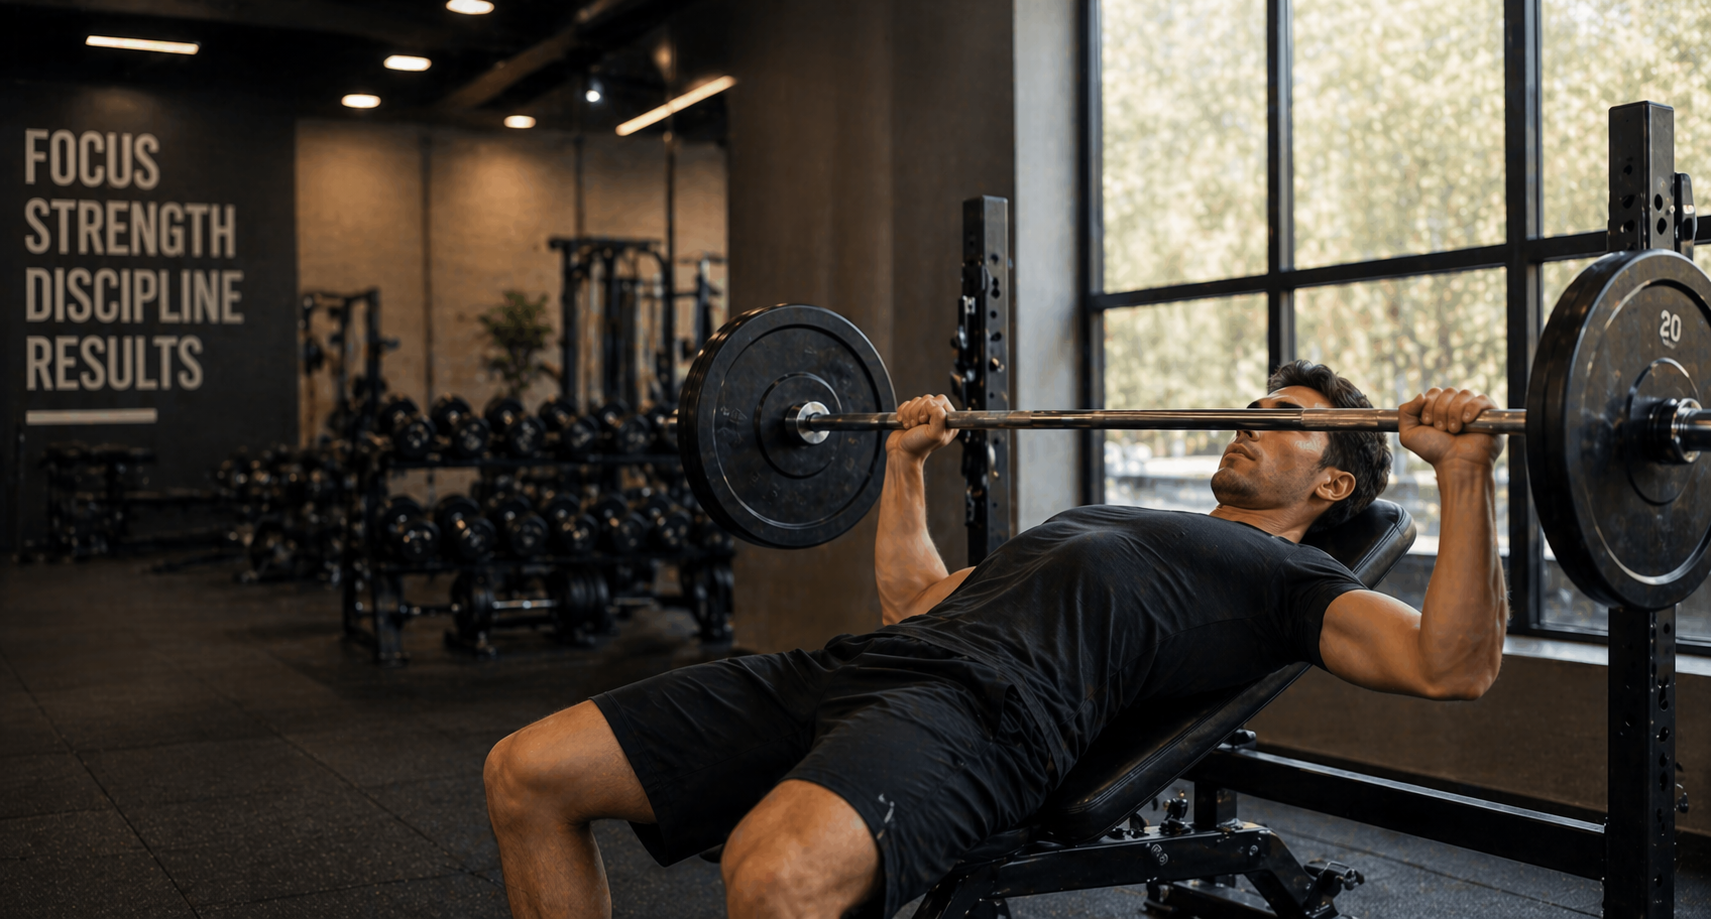
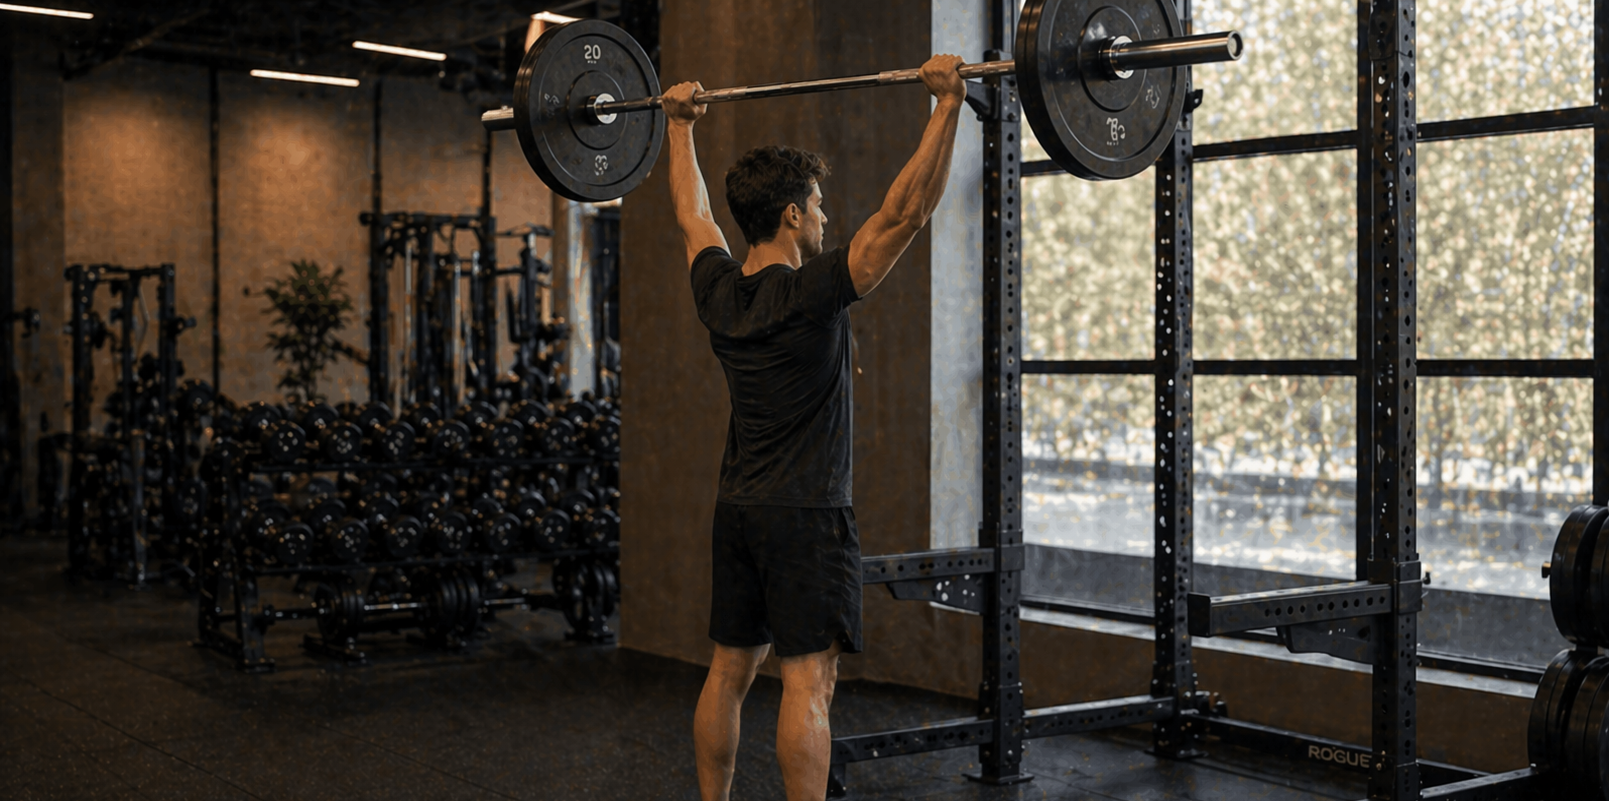
feat: cta section

diff --git a/index.html b/index.html
@@ -81,6 +81,7 @@
         </section>
 
         <section class="features-modern">
+            <h2 class="visually-hidden">Gym Features Overview</h2>
             <div class="grid-2x2">
 
                 <article class="card">
@@ -120,8 +121,17 @@
                         <p>Stay hydrated with water, juices, and energy drinks.</p>
                     </div>
                 </article>
-
             </div>
+        </section>
+
+        <section class="section cta-section" id="cta-section">
+            <h2 class="h2">Your fitness journey starts here!</h2>
+            <p class="p">
+                No commitments, no pressure. Try Gym4U for free and explore our classes,
+                expert trainers, and modern facilities. Check the
+                schedule and find what suits you.
+            </p>
+            <p class="p"><a class="a" href="classes.html">See more about classes!</a></p>
         </section>
 
         <section class="section review-form-container">

diff --git a/css/index.css b/css/index.css
@@ -161,6 +161,18 @@
   background: rgba(120, 120, 120, 0.5);
 }
 
+.visually-hidden {
+  position: absolute;
+  width: 0.0625rem;
+  height: 0.0625rem;
+  padding: 0;
+  margin: -0.0625rem;
+  overflow: hidden;
+  clip: rect(0, 0, 0, 0);
+  white-space: nowrap;
+  border: 0;
+}
+
 .content {
   position: absolute;
   top: 0;
@@ -199,6 +211,23 @@
 
 .content a:hover {
   color: var(--primary-strong);
+}
+
+.cta-section {
+  background: var(--surface-muted);
+  border: 1px dashed var(--primary);
+  border-radius: var(--radius);
+  padding: 1rem;
+}
+
+.cta-section h2 {
+  text-align: center;
+  margin-bottom: 2rem;
+}
+
+.cta-section .p {
+  margin-top: 1rem;
+  margin-bottom: 0;
 }
 
 @media (max-width: 50rem) { 
